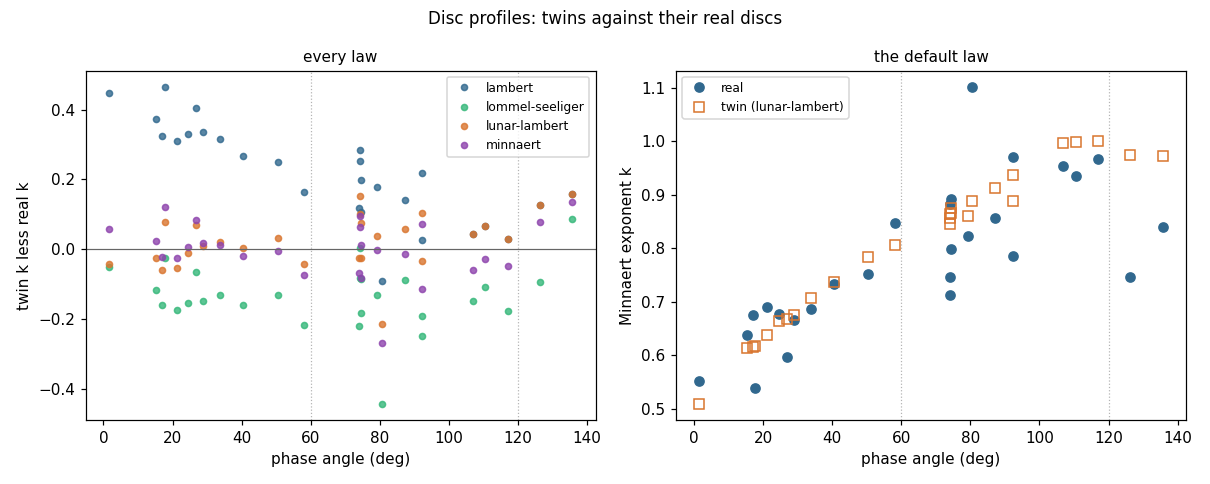
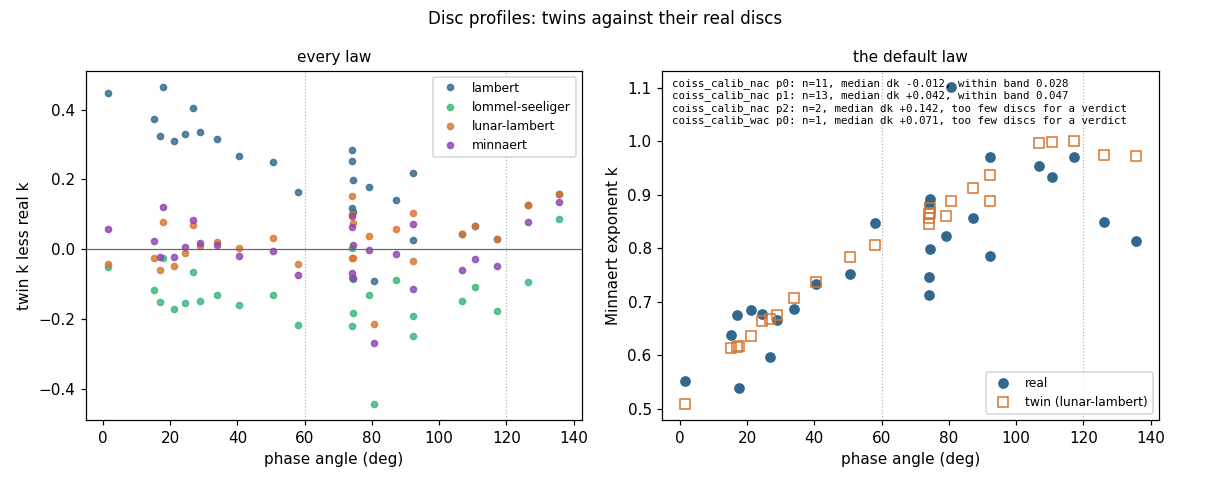
test(sim): regenerate the realism record
Made at 74f1d170, clean, in 5,089 s; the regression bands were
remeasured without a change, and the matched-frame statistics did not
move.

In the law study, two discs' twins now leave their clipped pixels out:
the Enceladus disc at 21 degrees (Lambert 12,057, Lommel-Seeliger
4,446, the default 1,193, and Minnaert 625 of 50,706 pixels) and the
Tethys disc at 17 degrees (Lommel-Seeliger 2,018 of 57,044).  Their
exponent differences move by at most 0.008.  The Enceladus twins are
clipped by the real disc's test, so they give no limb peak, and the
bin below 60 degrees over 400 px drops from 5 limbs to 4 (band 0.42 to
0.24 px; the default's twins +0.02 to +0.03 px, still within).  The
Rhea limb at 79 degrees, which its matched frame did not measure,
now enters the study (-0.36 px).  The disc-profile check and the law
comparison are unchanged: +0.042 against 0.047 at 60 to 120 degrees,
and the default still agrees best among the laws that separate from
it.  The developer guide, the report, and the plan row are restated.

Claude-Session: https://claude.ai/code/session_017AiBpho9osWUDhqgUM5Gdt

diff --git a/plans/SIM_IMPROVEMENT_PLAN.md b/plans/SIM_IMPROVEMENT_PLAN.md
@@ -221,7 +221,7 @@ affect no current scene (#1094, #1057, and #1115); their order is not yet set.
 | #892 | PSF and smear zero-pad the frame: darkened edges, no light from outside it |
 | #894 | **Done (PR #1104).** Night sides render black in the image and in the simulated template (the production template keeps a 0.05 pedestal there, tracked in #1106), the predicted silhouette comes from the outline, brightness above 1 reaches the detector uncapped (Minnaert capped at 2), and the simulated limb is the lit outline by production's mean-incidence rule, which also closes #1056; 40 scene renders and 40 baselines moved, the low-phase limb mis-lock vanished with the night glow, the Titan crescents' known error went from 5.74 to 1.84 px on a haze #1101 finds four times too bright, and the #790 lock persists (mesh seed 10 still ends 12.8 px off on 24 of 25 draws, now at 0.89 confidence). Current state after #1053 and #1101: the Titan crescents' known error is 10.19 px, the disc correlation locked on the ring of light at medium tier, and mesh seed 10 is conflicted (body_shape_lock_suspect) on 25 of 25 draws, 13.62-13.76 px off at confidence 0.27, so the veto declines it. Night-side 1% floor and clipped photometric laws |
 | #875, #1068 | **Done (PR #1107).** Each pixel of a relief body reads the terrain where its line of sight first meets the relief surface, ridge tops a quarter-cell step could pass over included, so the share of the disc read more than half a correlation length from the point shown drops from 9% to none at 5% relief and 15 degrees and from 63% to 0.008% at 2 degrees, and no normal is mirrored; cells where the point seen jumps behind a ridge or stretches across an edge-on slope are shaded on the working grid, and relief finer than 5 detector pixels is shaded wholly there, so the light lands within 0.00142 px of whole-working-grid shading on the bodies measured. The relief regression scene's fused error moved from 0.840-0.847 px to 0.878 px, where the disc correlation stops at the edge of its window (#791), and its blob band from 2.35-2.64 px to 1.79-1.85 px; the RMS cap, a scene-format limit, rises from 0.05 to 0.1, where the surface stays about half the radius out from the center; the guide's outline accuracy is corrected to 7e-4 on 99.9% of the azimuths at 5% relief, 2e-3 at worst. A body seen from a sub-observer latitude is read the same way, about its turned line of sight. Current state after #1053: the relief scene's fused error is 0.882-0.900 px, and the disc correlation no longer stops at the edge of its window; its answer is the high-pass surface's own maximum, pulled by the relief the smooth template lacks. The blob band, 1.79-1.85 px, is unchanged. Relief reads disc terrain at the smooth sphere's direction; fine limb relief is interpolated from too coarse a grid |
-| #842, #646 | **Done (PR #1222).** The realism match measures each limb's gradient peak against the silhouette, pairs each real limb with its matched twin, leaves out real discs clipped at the camera's full scale (3 NAC frames, found from their raw products), and judges every bin with at least 3 real limbs against its own scatter; the real silhouettes of the mid-sized moons take the IAU radii (pck00010/11, Thomas 2010; operator 2026-11-25; real navigation keeps the Cassini PCK's, #1216). A body key, `normal_albedo`, sets each body's brightness (the body half of #895), and each matched body takes its real disc's. The match also measures how the brightness falls across each disc (Minnaert's exponent) and, in a photometric-law study over every resolved moon of the cohort whatever the frame's class (27 discs on 23 Cassini frames, 1.5 to 136 deg; 93 moons in view left out with their reasons, including the irregular moons and those whose shape is not known, which a spherical twin cannot match), renders a twin of each disc under every law, each pair fitted over exactly the same pixels. McEwen's lunar-Lambert blend matches the real discs' fitted blends (rms 0.15, mean under 0.001), and the default's twins miss the real exponents by a median 0.037 below 60 deg and 0.057 at 60-120 deg, against 0.140/0.148 for Lommel-Seeliger and 0.328/0.118 for Lambert; Minnaert with the real discs' own exponent trend does not separate from it. So the scene default is lunar-Lambert (operator 2026-11-25), and record tests hold the default's disc profile within each judged bin's band (2 standard errors of the paired twin-less-real differences: -0.012 against 0.028 and +0.042 against 0.047, no bin a known finding) and require it to agree at least as well as every law that separates from it. Iapetus is measured over a 40 deg cap inside each terrain: its dark terrain follows the default (exponent 0.85, the twin 0.04 off), and its bright terrain at 81 deg falls more steeply than every twin (1.10; Lambert 0.09 off, the default 0.21); the two discs above 120 deg fall more gently than the default (Lambert there; 0.85 and 0.81 over the pixels their twins count, against 0.98 and 0.97); each on too few frames for a verdict, and only Saturnian moons on Cassini frames back the study (#1231). Against main, 33 catalog scenes render differently, 31 of them through the default law and `crescent_stars` and `vgiss_1_wac_saturn` through their real-frame brightness alone (the Titan scenes, under the opaque haze of #1101, and the other scenes above about 104 deg, where the blend is 0, render as on main), and so do the 32 steps of the limb offset sweeps; the navigator's Lambert template biases its body techniques on lunar-Lambert bodies (#1110), and those truth checks are held to known-error bands: 7 new KNOWN_ERRORS rows and 13 scenes newly in expected blocks. Guard scenes take their brightness from real frames through `normal_albedo`, and none saturates on the disc; the lossy moon's compression step is 64 DN, whose block-edge contrast (1.12-1.27) sits at the three real lossy Rhea frames' mean of 1.22. The realism record is regenerated (made at ef805da1): both judged limb bins and both judged disc bins lie within their bands, and the matched NAC limbs' rise width is 2.24 px against 2.54 real (W1/IQR 0.54) and the WAC's 2.97 against 3.24 (0.78). #646 was folded into #843 (operator 2026-11-22). Simulated limbs are not checked for where the brightness gradient peaks; the limb-bias harness measures a simulated ridge half a pixel from the deployed one |
+| #842, #646 | **Done (PR #1222).** The realism match measures each limb's gradient peak against the silhouette, pairs each real limb with its matched twin, leaves out real discs clipped at the camera's full scale (3 NAC frames, found from their raw products), and judges every bin with at least 3 real limbs against its own scatter; the real silhouettes of the mid-sized moons take the IAU radii (pck00010/11, Thomas 2010; operator 2026-11-25; real navigation keeps the Cassini PCK's, #1216). A body key, `normal_albedo`, sets each body's brightness (the body half of #895), and each matched body takes its real disc's. The match also measures how the brightness falls across each disc (Minnaert's exponent) and, in a photometric-law study over every resolved moon of the cohort whatever the frame's class (27 discs on 23 Cassini frames, 1.5 to 136 deg; 93 moons in view left out with their reasons, including the irregular moons and those whose shape is not known, which a spherical twin cannot match), renders a twin of each disc under every law, each pair fitted over exactly the same pixels. McEwen's lunar-Lambert blend matches the real discs' fitted blends (rms 0.15, mean under 0.001), and the default's twins miss the real exponents by a median 0.037 below 60 deg and 0.057 at 60-120 deg, against 0.140/0.148 for Lommel-Seeliger and 0.328/0.118 for Lambert; Minnaert with the real discs' own exponent trend does not separate from it. So the scene default is lunar-Lambert (operator 2026-11-25), and record tests hold the default's disc profile within each judged bin's band (2 standard errors of the paired twin-less-real differences: -0.012 against 0.028 and +0.042 against 0.047, no bin a known finding) and require it to agree at least as well as every law that separates from it. Iapetus is measured over a 40 deg cap inside each terrain: its dark terrain follows the default (exponent 0.85, the twin 0.04 off), and its bright terrain at 81 deg falls more steeply than every twin (1.10; Lambert 0.09 off, the default 0.21); the two discs above 120 deg fall more gently than the default (Lambert there; 0.85 and 0.81 over the pixels their twins count, against 0.98 and 0.97); each on too few frames for a verdict, and only Saturnian moons on Cassini frames back the study (#1231). Against main, 33 catalog scenes render differently, 31 of them through the default law and `crescent_stars` and `vgiss_1_wac_saturn` through their real-frame brightness alone (the Titan scenes, under the opaque haze of #1101, and the other scenes above about 104 deg, where the blend is 0, render as on main), and so do the 32 steps of the limb offset sweeps; the navigator's Lambert template biases its body techniques on lunar-Lambert bodies (#1110), and those truth checks are held to known-error bands: 7 new KNOWN_ERRORS rows and 13 scenes newly in expected blocks. Guard scenes take their brightness from real frames through `normal_albedo`, and none saturates on the disc; the lossy moon's compression step is 64 DN, whose block-edge contrast (1.12-1.27) sits at the three real lossy Rhea frames' mean of 1.22. The realism record is regenerated (made at 74f1d170): both judged limb bins and both judged disc bins lie within their bands, and the matched NAC limbs' rise width is 2.24 px against 2.54 real (W1/IQR 0.54) and the WAC's 2.97 against 3.24 (0.78). #646 was folded into #843 (operator 2026-11-22). Simulated limbs are not checked for where the brightness gradient peaks; the limb-bias harness measures a simulated ridge half a pixel from the deployed one |
 | #1163 | **Affects every calibrated Cassini realism row; found when the realism record was regenerated on current render code.** Simulated limbs now measure narrower than real on both calibrated cameras: NAC 2.19 px against 2.54 real (2.54 at 87bd9d68, W1/IQR 0.12 to 0.54), WAC 2.75 against 3.24 (W1/IQR 0.57 to 1.26). Bisect over the body render PRs merged since 87bd9d68, decide from the physics which value is right, and fix the simulator against the real frames |
 | #1100 | **Done (PR #1141).** The cast-shadow march starts where each pixel's line of sight crosses the surface and counts only terrain between that point and the Sun, ground right at the point that turns from the Sun is shadowed though the smoothed normal faces it, a pixel whose normal faces away is marked shadowed so craters cannot light it, and a normal leaning away is laid just in front of the sky plane; against a brute-force truth on 18 bodies at phases 0 to 150 the renderer darkens no pixel at phase 0 (main 48), lights none of the pixels whose ground turns from the Sun (main 364), shadows none the truth leaves lit (main 3), and misses 19 of the 24,245 cast-shadowed sunward pixels (main 21), and the line-of-sight reading of #1107 had already cut the black pixels of an 80 px disc at 2% relief from 344 to none; against main, `relief_psf_stray_light` darkens 12 pixels by one display level and none of its 16 blob answers moves by more than 0.00002 px, and the two relief gallery images darken where ground turns from the Sun (388 pixels by up to 10 levels and 124 by up to 2). Relief terrain hidden from both the Sun and the camera is drawn as black shadow inside the lit disc, because the cast-shadow march has no visibility test; at phase 0 a 2% relief body has 344 black pixels on an 80 px sphere |
 | #1110 | **Affects every ellipsoid scene that shades with the default lunar-Lambert law below about 104 deg phase, through the Lambert template the simulated body model navigates it with; its truth checks are held to known-error bands.** The navigator's Lambert body template biases its body techniques on bodies that do not shade Lambert: on the invariant spheres at 30 deg phase the disc correlation lands 0.44 to 0.45 px toward the Sun and the limb fit 0.22 to 0.23 px toward it, and the blob centroid lands 0.27 px away from it, each varying by 0.02 px or less over noise draws; production's template is Lambert too |

diff --git a/docs/dev_guide/dev_guide_simulator.rst b/docs/dev_guide/dev_guide_simulator.rst
@@ -6795,9 +6795,19 @@ their twins also count, their exponents are 0.85 and 0.81, where the Lambert twi
 Those two crescents show why each pair is fitted over the same pixels.  The Mimas disc
 is 55 px across, its real fit keeps only 176 pixels, and its twin's sphere does not
 count some of them.  Over all of its counted pixels the real disc fits 0.75, and over
-the pixels its twin also counts, 0.85.  In all, 36 of the study's 108 twins leave
-out some of their real disc's pixels, and only these two discs' exponents move by more
-than 0.005 when they are fitted again.
+the pixels its twin also counts, 0.85.  In all, 41 of the study's 108 twins leave
+out some of their real disc's pixels.  Only these two discs' exponents move by more
+than 0.01 when they are fitted again, by +0.10 and -0.03; the clipped twins below move
+theirs by 0.005 to 0.008.
+
+Two discs' twins reach the camera's ceiling, both bright moons at low phase.  On the
+Enceladus frame at 21 degrees, of the 50,706 pixels the real fits count, the Lambert
+twin reads 12,057 at the ceiling, the Lommel-Seeliger twin 4,446, the default's 1,193,
+and the Minnaert twin 625.  Each of those twins is clipped by the real disc's test, so
+none of them gives a limb peak.  On the Tethys frame at 17 degrees the Lommel-Seeliger
+twin reads 2,018 of 57,044 pixels at the ceiling.  Leaving those pixels out moves no
+twin's exponent difference by more than 0.008 and no phase-bin statistic by more than
+0.0003.
 
 The default law's disc-profile check: on the narrow-angle camera the twins' exponents
 differ from the real ones by a median of -0.012 below 60 degrees (11 discs, band 0.028)
@@ -6818,11 +6828,15 @@ the dark terrain's between 0.84 and 0.93, so the caps' size does not decide eith
 finding.  One frame of each terrain cannot say what law it follows.
 
 The limb peaks of the twins, where the realism match measured the real limb, bin as the
-limb-peak check does.  In the two bins with a verdict, the real medians are -0.12 px
-(phase below 60 degrees, over 400 px, 5 limbs) and +0.03 px (60 to 120 degrees, 100 to
-400 px, 4 limbs).  The default's twins give +0.02 and +0.08 px, within both bands
-(0.42 and 0.11 px); Lambert's -0.23 and +0.05 px, within both; Minnaert's +0.07 and
-+0.10 px, within both; and Lommel-Seeliger's +0.07 and +0.14 px, outside the second band.
+limb-peak check does.  In the two bins with a verdict, the real medians are -0.13 px
+(phase below 60 degrees, over 400 px, 4 limbs) and +0.03 px (60 to 120 degrees, 100 to
+400 px, 4 limbs).  The default's twins give +0.03 and +0.08 px, within both bands
+(0.24 and 0.11 px); Lambert's -0.18 and +0.05 px, within both; Minnaert's +0.08 and
++0.10 px, within both; and Lommel-Seeliger's +0.05 and +0.14 px, outside the second band.
+The first bin holds 4 limbs because the Enceladus twins at 21 degrees are clipped.  The
+Rhea limb at 79 degrees, 1,581 px across, peaks 0.36 px inside its silhouette; its
+matched frame did not measure a limb peak, and it shares its bin with one other limb,
+so that bin has no verdict.
 On the two limbs under 100 px across below 60 degrees, without a verdict, the real median
 is -0.06 px, the default's -0.01 px, and Lambert's -0.53 px.
 
@@ -6859,8 +6873,8 @@ navigation pairs.  Outputs:
   labels, FOM 7 rows, runtime).
 
 The full-cohort run takes 32 to 54 minutes on a workstation with local
-holdings without the photometric-law study, and about 90 minutes with it: the
-committed record of 2026-11-25 took 90 minutes (5,424 seconds), with other heavy runs
+holdings without the photometric-law study, and 60 to 90 minutes with it: the
+committed record of 2026-11-26 took 85 minutes (5,089 seconds), with other heavy runs
 sharing the machine.  ``--skip-law-study`` leaves the study out.
 That includes building the 19 star frames' catalog star lists, which takes
 about one minute (62 seconds measured on 2026-11-15, 45 of them on

diff --git a/docs/simulator_report/simulator_report.rst b/docs/simulator_report/simulator_report.rst
@@ -202,7 +202,7 @@ moves only those goes unnoticed.  Each held value must stay within a band: the l
 of its value.  The bands are two-sided, because a better-looking number can come
 from a worse simulator.  A second test requires the record and the band table to
 agree, and it reads only committed files.  The record stores the commit of the
-code that made it.  The current record was made at commit ``ef805da1`` on
+code that made it.  The current record was made at commit ``74f1d170`` on
 2026-11-26.
 
 Figure of merit 7 (technique diagnostics) is read-only and was not consulted
